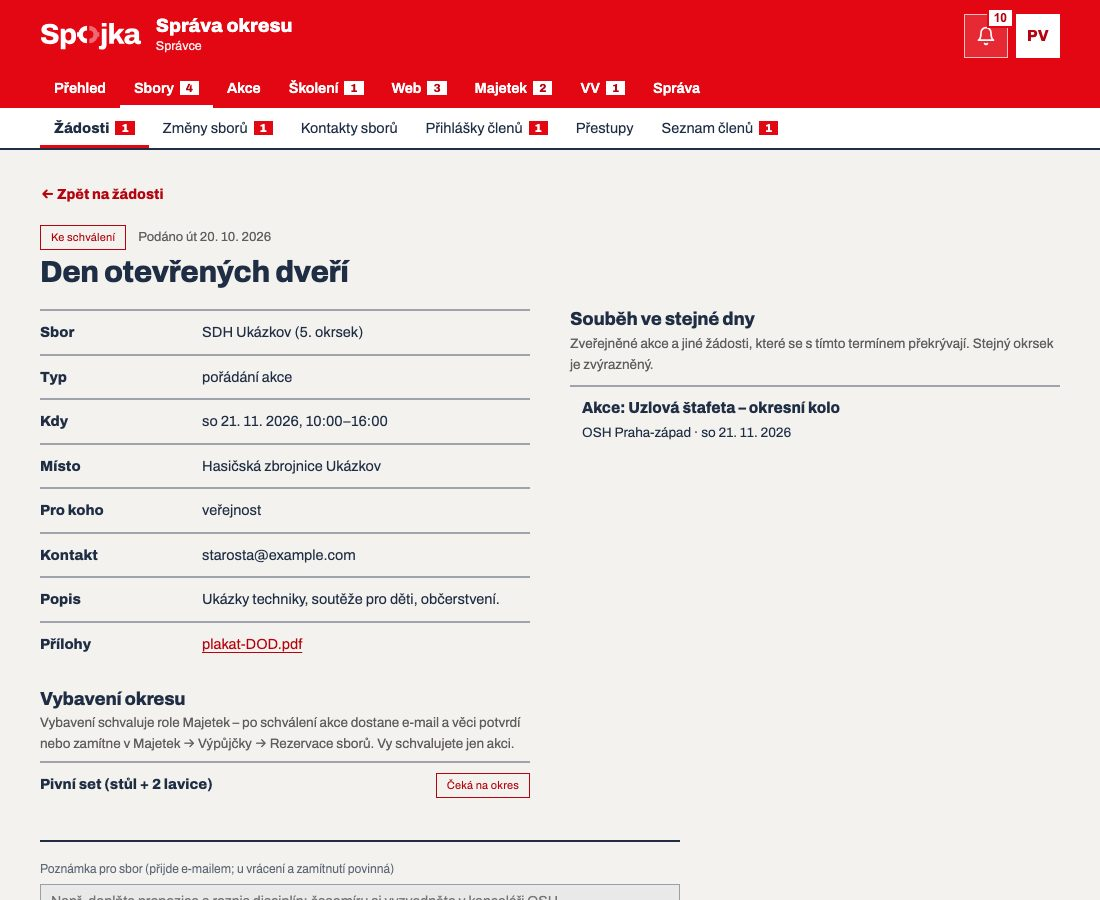
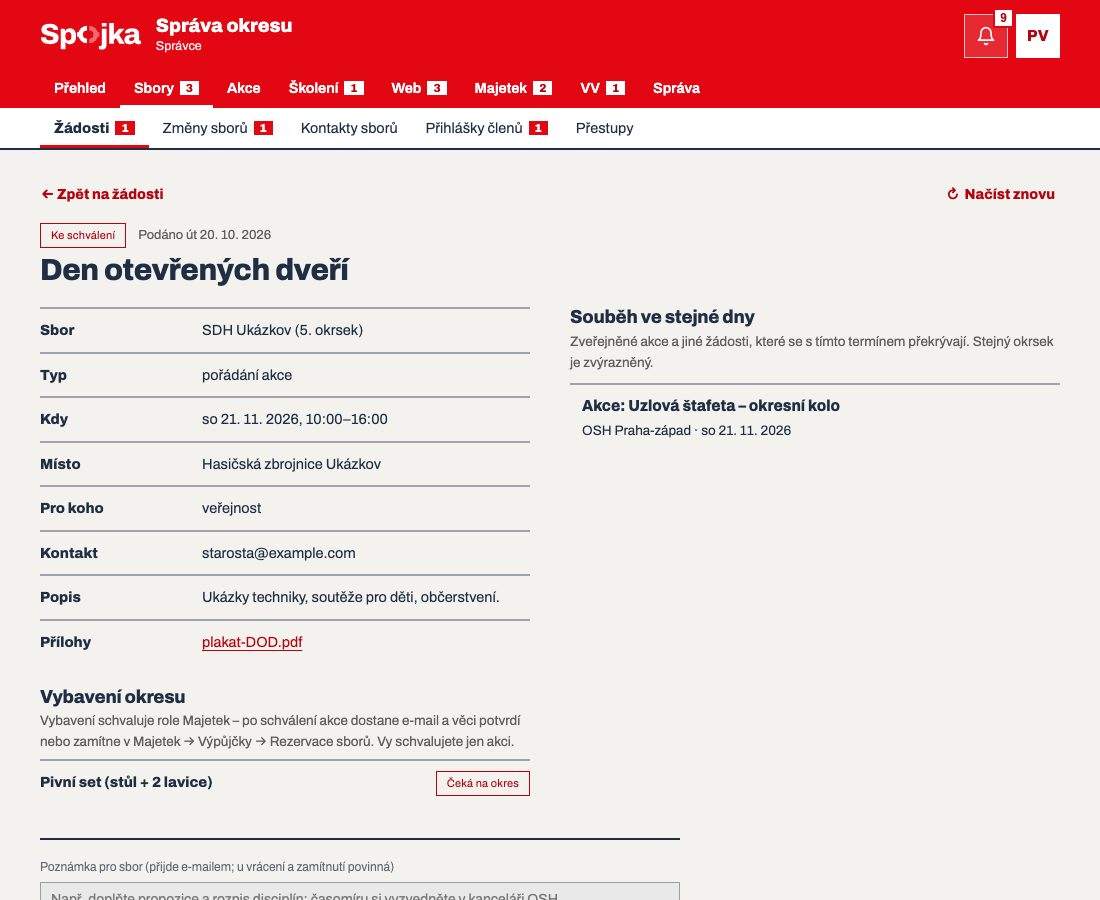
Aplikace: Načíst znovu i v detailech (lišta Zpět + Načíst znovu) a obnovení obrazovky po návratu do záložky po ≥ 60 s
- celostránkové detaily (žádost, změna sboru, kontakty, majetek, výpůjčka, přihláška, školení, jednání VV, soutěž okresu i sboru): .sz-detail-lista
- obnovitObrazovku(): visibilitychange, načte seznam i otevřený detail, při formuláři nebo zápisu nic
- snímky návodů s lištou, návody, vzory aplikace, tabulka změn pro Claude Design, CLAUDE.md

diff --git a/Aplikace OSH.dc.html b/Aplikace OSH.dc.html
@@ -85,6 +85,8 @@ a{ color:var(--color-action); } a:hover{ color:var(--color-action-hover); }
 .sz-hlava h1{ font-size:36px; line-height:1.1; margin:0 0 6px; }
 .sz-hlava p{ font-size:15px; color:var(--color-neutral-700); margin:0; max-width:72ch; }
 .sz-hlava-akce{ display:flex; gap:8px; align-items:center; flex-wrap:nowrap; }
+.sz-detail-lista{ display:flex; justify-content:space-between; align-items:center; gap:8px; margin:0 0 10px -4px; }
+.sz-detail-lista .sz-znovu-d{ display:inline-flex; align-items:center; gap:6px; }
 .sz-hlava-akce .btn{ min-height:40px; height:40px; padding-top:0; padding-bottom:0; display:inline-flex; align-items:center; justify-content:center; gap:6px; white-space:nowrap; }
 .sz-zalozky{ display:flex; gap:8px; flex-wrap:wrap; margin:0 0 12px; }
 .sz-ovladani{ display:flex; flex-wrap:wrap; align-items:flex-start; gap:8px 16px; margin:0 0 16px; }
@@ -176,6 +178,7 @@ a{ color:var(--color-action); } a:hover{ color:var(--color-action-hover); }
   .sz-hlava-akce{ display:contents; }
   .sz-znovu{ grid-column:2; grid-row:1; width:44px; height:44px !important; min-height:44px !important; padding:0 !important; }
   .sz-znovu-t{ display:none; }
+  .sz-detail-lista .sz-znovu-d{ width:44px; min-height:44px; padding:0; justify-content:center; }
   .sz-akce-hl{ grid-column:1 / -1; grid-row:2; width:100%; height:44px !important; min-height:44px !important; }
   .sz-akce-dalsi{ grid-column:1 / -1; grid-row:3; width:100%; height:44px !important; min-height:44px !important; }
   .sz-zalozky{ flex-wrap:nowrap; overflow-x:auto; }
@@ -471,7 +474,7 @@ a{ color:var(--color-action); } a:hover{ color:var(--color-action-hover); }
         <sc-if value="{{ zo.sz.kostra }}" hint-placeholder-val="{{ false }}"><spojka-kostra radky="4"></spojka-kostra></sc-if><sc-if value="{{ zo.sz.maRadky }}" hint-placeholder-val="{{ true }}"><div class="sz-seznam"><sc-for list="{{ zo.sz.radky }}" as="r" hint-placeholder-count="4"><button type="button" class="{{ r.trida }}" title="{{ r.title }}" onClick="{{ r.go }}"><span class="sz-kotva"><span class="sz-kotva-hl">{{ r.kotva }}</span><span class="sz-kotva-po sz-kotva-po--pc">{{ r.kotva2 }}</span><span class="sz-kotva-po sz-kotva-po--mob">{{ r.kotva2m }}</span></span><span class="sz-hlavni"><span class="sz-titulek">{{ r.titulek }}</span><sc-if value="{{ r.popis }}" hint-placeholder-val="{{ true }}"><span class="sz-popis">{{ r.popis }}</span></sc-if><span class="sz-stitky sz-stitky--mob"><sc-for list="{{ r.vse }}" as="t" hint-placeholder-count="2"><span class="{{ t.trida }}">{{ t.t }}</span></sc-for></span></span><span class="sz-stav"><sc-if value="{{ r.stav }}" hint-placeholder-val="{{ true }}"><span class="{{ r.stav.trida }}">{{ r.stav.t }}</span></sc-if></span><span class="sz-stitky sz-stitky--pc"><sc-for list="{{ r.stitky }}" as="t" hint-placeholder-count="2"><span class="{{ t.trida }}">{{ t.t }}</span></sc-for></span><span class="sz-sipka" aria-hidden="true">→</span></button></sc-for></div></sc-if><sc-if value="{{ zo.sz.prazdny }}" hint-placeholder-val="{{ false }}"><div class="sz-prazdny"><b class="sz-prazdny-co">{{ zo.sz.prazdnyCo }}</b><span class="sz-prazdny-proc">{{ zo.sz.prazdnyProc }}</span><sc-if value="{{ zo.sz.prazdnyOdkaz }}" hint-placeholder-val="{{ false }}"><button type="button" class="btn btn-ghost" style="margin:8px 0 0 -12px;" onClick="{{ zo.sz.prazdnyGo }}">{{ zo.sz.prazdnyOdkaz }}</button></sc-if></div></sc-if>
       </sc-if>
       <sc-if value="{{ zo.detail }}" hint-placeholder-val="{{ false }}">
-        <button type="button" onClick="{{ zo.zpet }}" class="btn btn-ghost" style="margin:0 0 12px -4px;">← Zpět na žádosti</button>
+        <div class="sz-detail-lista"><button type="button" onClick="{{ zo.zpet }}" class="btn btn-ghost">← Zpět na žádosti</button><button type="button" class="btn btn-ghost sz-znovu-d" onClick="{{ zo.znovu }}" aria-label="Načíst znovu" title="Načíst znovu"><span aria-hidden="true">↻</span><span class="sz-znovu-t">Načíst znovu</span></button></div>
         <div style="display:flex;gap:12px;align-items:center;flex-wrap:wrap;margin-bottom:6px;"><span class="{{ zd2.tagClass }}">{{ zd2.stavLabel }}</span><span style="font-size:13px;color:var(--color-neutral-700);">{{ zd2.podano }}</span></div>
         <h1 style="font-size:30px;margin:0 0 20px;">{{ zd2.nazev }}</h1>
         <div style="display:grid;grid-template-columns:repeat(auto-fit,minmax(300px,1fr));gap:40px;">
@@ -797,7 +800,7 @@ a{ color:var(--color-action); } a:hover{ color:var(--color-action-hover); }
         <sc-if value="{{ zm.sz.kostra }}" hint-placeholder-val="{{ false }}"><spojka-kostra radky="4"></spojka-kostra></sc-if><sc-if value="{{ zm.sz.maRadky }}" hint-placeholder-val="{{ true }}"><div class="sz-seznam"><sc-for list="{{ zm.sz.radky }}" as="r" hint-placeholder-count="4"><button type="button" class="{{ r.trida }}" title="{{ r.title }}" onClick="{{ r.go }}"><span class="sz-kotva"><span class="sz-kotva-hl">{{ r.kotva }}</span><span class="sz-kotva-po sz-kotva-po--pc">{{ r.kotva2 }}</span><span class="sz-kotva-po sz-kotva-po--mob">{{ r.kotva2m }}</span></span><span class="sz-hlavni"><span class="sz-titulek">{{ r.titulek }}</span><sc-if value="{{ r.popis }}" hint-placeholder-val="{{ true }}"><span class="sz-popis">{{ r.popis }}</span></sc-if><span class="sz-stitky sz-stitky--mob"><sc-for list="{{ r.vse }}" as="t" hint-placeholder-count="2"><span class="{{ t.trida }}">{{ t.t }}</span></sc-for></span></span><span class="sz-stav"><sc-if value="{{ r.stav }}" hint-placeholder-val="{{ true }}"><span class="{{ r.stav.trida }}">{{ r.stav.t }}</span></sc-if></span><span class="sz-stitky sz-stitky--pc"><sc-for list="{{ r.stitky }}" as="t" hint-placeholder-count="2"><span class="{{ t.trida }}">{{ t.t }}</span></sc-for></span><span class="sz-sipka" aria-hidden="true">→</span></button></sc-for></div></sc-if><sc-if value="{{ zm.sz.prazdny }}" hint-placeholder-val="{{ false }}"><div class="sz-prazdny"><b class="sz-prazdny-co">{{ zm.sz.prazdnyCo }}</b><span class="sz-prazdny-proc">{{ zm.sz.prazdnyProc }}</span><sc-if value="{{ zm.sz.prazdnyOdkaz }}" hint-placeholder-val="{{ false }}"><button type="button" class="btn btn-ghost" style="margin:8px 0 0 -12px;" onClick="{{ zm.sz.prazdnyGo }}">{{ zm.sz.prazdnyOdkaz }}</button></sc-if></div></sc-if>
       </sc-if>
       <sc-if value="{{ zm.detail }}" hint-placeholder-val="{{ false }}">
-        <button type="button" onClick="{{ zm.zpet }}" class="btn btn-ghost" style="margin:0 0 12px -4px;">← Zpět na změny sborů</button>
+        <div class="sz-detail-lista"><button type="button" onClick="{{ zm.zpet }}" class="btn btn-ghost">← Zpět na změny sborů</button><button type="button" class="btn btn-ghost sz-znovu-d" onClick="{{ zm.znovu }}" aria-label="Načíst znovu" title="Načíst znovu"><span aria-hidden="true">↻</span><span class="sz-znovu-t">Načíst znovu</span></button></div>
         <div style="display:flex;gap:12px;align-items:center;flex-wrap:wrap;margin-bottom:6px;"><span class="{{ zd3.tagClass }}">{{ zd3.stav }}</span><span style="font-size:13.5px;color:var(--color-neutral-700);">{{ zd3.podano }}</span></div>
         <h1 style="font-size:30px;margin:0 0 16px;">{{ zd3.sbor }}</h1>
         <sc-if value="{{ zd3.maPoznSboru }}" hint-placeholder-val="{{ false }}"><p style="border:2px solid var(--color-divider);padding:10px 12px;max-width:760px;margin:0 0 16px;"><b>Poznámka sboru:</b> {{ zd3.poznSboru }}</p></sc-if>
@@ -840,7 +843,7 @@ a{ color:var(--color-action); } a:hover{ color:var(--color-action-hover); }
         <sc-if value="{{ ks.sz.kostra }}" hint-placeholder-val="{{ false }}"><spojka-kostra radky="4"></spojka-kostra></sc-if><sc-if value="{{ ks.tab.maRadky }}" hint-placeholder-val="{{ true }}"><table class="table sz-tab"><thead><tr><sc-for list="{{ ks.tab.hlava }}" as="h" hint-placeholder-count="4"><th>{{ h.t }}</th></sc-for><th class="sz-tab-sip"></th></tr></thead><tbody><sc-for list="{{ ks.tab.radky }}" as="r" hint-placeholder-count="5"><tr class="{{ r.trida }}" onClick="{{ r.go }}"><td class="sz-tab-t"><sc-if value="{{ r.klik }}" hint-placeholder-val="{{ true }}"><button type="button" class="sz-tab-tl" aria-expanded="{{ r.aria }}">{{ r.titulek }}</button></sc-if><sc-if value="{{ r.neklik }}" hint-placeholder-val="{{ false }}"><span class="sz-tab-tl">{{ r.titulek }}</span></sc-if><sc-if value="{{ r.pod }}" hint-placeholder-val="{{ false }}"><span class="sz-tab-pod">{{ r.pod }}</span></sc-if><span class="sz-tab-mob"><sc-if value="{{ r.popis }}" hint-placeholder-val="{{ true }}"><span class="sz-popis">{{ r.popis }}</span></sc-if><sc-if value="{{ r.stav }}" hint-placeholder-val="{{ false }}"><span class="{{ r.stav.trida }}">{{ r.stav.t }}</span></sc-if></span></td><sc-for list="{{ r.bunky }}" as="b" hint-placeholder-count="3"><td class="{{ b.trida }}"><sc-if value="{{ b.stitek }}" hint-placeholder-val="{{ false }}"><span class="{{ b.stitek.trida }}">{{ b.stitek.t }}</span></sc-if><sc-if value="{{ b.jeOdkaz }}" hint-placeholder-val="{{ false }}"><a href="{{ b.href }}" onClick="{{ b.stop }}">{{ b.t }}</a></sc-if><sc-if value="{{ b.jeText }}" hint-placeholder-val="{{ true }}">{{ b.t }}</sc-if><sc-if value="{{ b.pod }}" hint-placeholder-val="{{ false }}"><span class="sz-tab-pod">{{ b.pod }}</span></sc-if></td></sc-for><td class="sz-tab-sip" aria-hidden="true">{{ r.sipka }}</td></tr></sc-for></tbody></table></sc-if><sc-if value="{{ ks.sz.prazdny }}" hint-placeholder-val="{{ false }}"><div class="sz-prazdny"><b class="sz-prazdny-co">{{ ks.sz.prazdnyCo }}</b><span class="sz-prazdny-proc">{{ ks.sz.prazdnyProc }}</span><sc-if value="{{ ks.sz.prazdnyOdkaz }}" hint-placeholder-val="{{ false }}"><button type="button" class="btn btn-ghost" style="margin:8px 0 0 -12px;" onClick="{{ ks.sz.prazdnyGo }}">{{ ks.sz.prazdnyOdkaz }}</button></sc-if></div></sc-if>
       </sc-if>
       <sc-if value="{{ ks.detail }}" hint-placeholder-val="{{ false }}">
-        <button type="button" onClick="{{ ks.zpet }}" class="btn btn-ghost" style="margin:0 0 12px -4px;">← Zpět na kontakty sborů</button>
+        <div class="sz-detail-lista"><button type="button" onClick="{{ ks.zpet }}" class="btn btn-ghost">← Zpět na kontakty sborů</button><button type="button" class="btn btn-ghost sz-znovu-d" onClick="{{ ks.znovu }}" aria-label="Načíst znovu" title="Načíst znovu"><span aria-hidden="true">↻</span><span class="sz-znovu-t">Načíst znovu</span></button></div>
         <div style="display:flex;justify-content:space-between;align-items:flex-end;gap:16px;flex-wrap:wrap;margin-bottom:6px;">
           <h1 style="font-size:30px;margin:0;">{{ ks.dSbor }}</h1>
           <button type="button" class="btn btn-primary" onClick="{{ ks.dKopirovat }}" disabled="{{ ks.dPrazdno }}">Kopírovat e-maily sboru</button>
@@ -1064,7 +1067,7 @@ a{ color:var(--color-action); } a:hover{ color:var(--color-action-hover); }
           <sc-if value="{{ mj.tabM.maRadky }}" hint-placeholder-val="{{ true }}"><table class="table sz-tab"><thead><tr><sc-for list="{{ mj.tabM.hlava }}" as="h" hint-placeholder-count="4"><th>{{ h.t }}</th></sc-for><th class="sz-tab-sip"></th></tr></thead><tbody><sc-for list="{{ mj.tabM.radky }}" as="r" hint-placeholder-count="5"><tr class="{{ r.trida }}" onClick="{{ r.go }}"><td class="sz-tab-t"><sc-if value="{{ r.klik }}" hint-placeholder-val="{{ true }}"><button type="button" class="sz-tab-tl" aria-expanded="{{ r.aria }}">{{ r.titulek }}</button></sc-if><sc-if value="{{ r.neklik }}" hint-placeholder-val="{{ false }}"><span class="sz-tab-tl">{{ r.titulek }}</span></sc-if><sc-if value="{{ r.pod }}" hint-placeholder-val="{{ false }}"><span class="sz-tab-pod">{{ r.pod }}</span></sc-if><span class="sz-tab-mob"><sc-if value="{{ r.popis }}" hint-placeholder-val="{{ true }}"><span class="sz-popis">{{ r.popis }}</span></sc-if><sc-if value="{{ r.stav }}" hint-placeholder-val="{{ false }}"><span class="{{ r.stav.trida }}">{{ r.stav.t }}</span></sc-if></span></td><sc-for list="{{ r.bunky }}" as="b" hint-placeholder-count="3"><td class="{{ b.trida }}"><sc-if value="{{ b.stitek }}" hint-placeholder-val="{{ false }}"><span class="{{ b.stitek.trida }}">{{ b.stitek.t }}</span></sc-if><sc-if value="{{ b.jeOdkaz }}" hint-placeholder-val="{{ false }}"><a href="{{ b.href }}" onClick="{{ b.stop }}">{{ b.t }}</a></sc-if><sc-if value="{{ b.jeText }}" hint-placeholder-val="{{ true }}">{{ b.t }}</sc-if><sc-if value="{{ b.pod }}" hint-placeholder-val="{{ false }}"><span class="sz-tab-pod">{{ b.pod }}</span></sc-if></td></sc-for><td class="sz-tab-sip" aria-hidden="true">{{ r.sipka }}</td></tr></sc-for></tbody></table></sc-if><sc-if value="{{ mj.szm.prazdny }}" hint-placeholder-val="{{ false }}"><div class="sz-prazdny"><b class="sz-prazdny-co">{{ mj.szm.prazdnyCo }}</b><span class="sz-prazdny-proc">{{ mj.szm.prazdnyProc }}</span><sc-if value="{{ mj.szm.prazdnyOdkaz }}" hint-placeholder-val="{{ false }}"><button type="button" class="btn btn-ghost" style="margin:8px 0 0 -12px;" onClick="{{ mj.szm.prazdnyGo }}">{{ mj.szm.prazdnyOdkaz }}</button></sc-if></div></sc-if>
         </sc-if>
         <sc-if value="{{ mj.maDetail }}" hint-placeholder-val="{{ false }}">
-          <button type="button" onClick="{{ mj.d.zpet }}" class="btn btn-ghost" style="margin:0 0 12px -4px;">← Zpět na seznam</button>
+          <div class="sz-detail-lista"><button type="button" onClick="{{ mj.d.zpet }}" class="btn btn-ghost">← Zpět na seznam</button><button type="button" class="btn btn-ghost sz-znovu-d" onClick="{{ mj.znovu }}" aria-label="Načíst znovu" title="Načíst znovu"><span aria-hidden="true">↻</span><span class="sz-znovu-t">Načíst znovu</span></button></div>
           <div style="display:flex;gap:10px;align-items:center;flex-wrap:wrap;margin-bottom:6px;"><span style="width:12px;height:12px;background:{{ mj.d.barva }};border:1px solid var(--color-text);display:inline-block;"></span><span>{{ mj.d.stav }}</span><span style="font-size:13px;color:var(--color-neutral-700);">{{ mj.d.idText }}</span></div>
           <h2 style="font-size:26px;margin:0 0 16px;">{{ mj.d.nazev }}</h2>
           <div style="display:grid;grid-template-columns:repeat(auto-fit,minmax(280px,1fr));gap:32px;">
@@ -1152,7 +1155,7 @@ a{ color:var(--color-action); } a:hover{ color:var(--color-action-hover); }
           <sc-if value="{{ mj.szv.kostra }}" hint-placeholder-val="{{ false }}"><spojka-kostra radky="4"></spojka-kostra></sc-if><sc-if value="{{ mj.szv.maRadky }}" hint-placeholder-val="{{ true }}"><div class="sz-seznam"><sc-for list="{{ mj.szv.radky }}" as="r" hint-placeholder-count="4"><button type="button" class="{{ r.trida }}" title="{{ r.title }}" onClick="{{ r.go }}"><span class="sz-kotva"><span class="sz-kotva-hl">{{ r.kotva }}</span><span class="sz-kotva-po sz-kotva-po--pc">{{ r.kotva2 }}</span><span class="sz-kotva-po sz-kotva-po--mob">{{ r.kotva2m }}</span></span><span class="sz-hlavni"><span class="sz-titulek">{{ r.titulek }}</span><sc-if value="{{ r.popis }}" hint-placeholder-val="{{ true }}"><span class="sz-popis">{{ r.popis }}</span></sc-if><span class="sz-stitky sz-stitky--mob"><sc-for list="{{ r.vse }}" as="t" hint-placeholder-count="2"><span class="{{ t.trida }}">{{ t.t }}</span></sc-for></span></span><span class="sz-stav"><sc-if value="{{ r.stav }}" hint-placeholder-val="{{ true }}"><span class="{{ r.stav.trida }}">{{ r.stav.t }}</span></sc-if></span><span class="sz-stitky sz-stitky--pc"><sc-for list="{{ r.stitky }}" as="t" hint-placeholder-count="2"><span class="{{ t.trida }}">{{ t.t }}</span></sc-for></span><span class="sz-sipka" aria-hidden="true">→</span></button><sc-if value="{{ r.otevreny }}" hint-placeholder-val="{{ false }}"><div class="sz-rozbal"><sc-if value="{{ r.maInfo }}" hint-placeholder-val="{{ false }}"><span>{{ r.info }}</span></sc-if><div style="display:flex;gap:8px;flex-wrap:wrap;"><sc-if value="{{ r.lzeRozhodnout }}" hint-placeholder-val="{{ false }}"><button type="button" class="btn btn-primary" onClick="{{ r.potvrdit }}" disabled="{{ busy }}">{{ r.tlPotvrdit }}</button><button type="button" class="btn btn-secondary" onClick="{{ r.zamitnout }}" disabled="{{ busy }}">Zamítnout</button></sc-if><button type="button" class="btn btn-ghost" onClick="{{ r.otevritVec }}">Otevřít věc v evidenci</button></div></div></sc-if></sc-for></div></sc-if><sc-if value="{{ mj.szv.prazdny }}" hint-placeholder-val="{{ false }}"><div class="sz-prazdny"><b class="sz-prazdny-co">{{ mj.szv.prazdnyCo }}</b><span class="sz-prazdny-proc">{{ mj.szv.prazdnyProc }}</span><sc-if value="{{ mj.szv.prazdnyOdkaz }}" hint-placeholder-val="{{ false }}"><button type="button" class="btn btn-ghost" style="margin:8px 0 0 -12px;" onClick="{{ mj.szv.prazdnyGo }}">{{ mj.szv.prazdnyOdkaz }}</button></sc-if></div></sc-if>
         </sc-if>
         <sc-if value="{{ mj.vypMaDetail }}" hint-placeholder-val="{{ false }}">
-          <button type="button" onClick="{{ mj.v.zpet }}" class="btn btn-ghost" style="margin:0 0 12px -4px;">← Zpět na výpůjčky</button>
+          <div class="sz-detail-lista"><button type="button" onClick="{{ mj.v.zpet }}" class="btn btn-ghost">← Zpět na výpůjčky</button><button type="button" class="btn btn-ghost sz-znovu-d" onClick="{{ mj.znovu }}" aria-label="Načíst znovu" title="Načíst znovu"><span aria-hidden="true">↻</span><span class="sz-znovu-t">Načíst znovu</span></button></div>
           <div style="display:flex;gap:10px;align-items:center;flex-wrap:wrap;margin-bottom:6px;"><span class="{{ mj.v.tagClass }}">{{ mj.v.stav }}</span><span style="font-size:13px;color:var(--color-neutral-700);">{{ mj.v.idText }}</span></div>
           <h2 style="font-size:26px;margin:0 0 16px;">{{ mj.v.nazev }}</h2>
           <div style="max-width:720px;"><sc-for list="{{ mj.v.kv }}" as="k" hint-placeholder-count="12"><div style="display:grid;grid-template-columns:minmax(120px,170px) minmax(0,1fr);gap:12px;padding:9px 0;border-top:2px solid var(--color-divider);font-size:14.5px;"><span style="font-weight:700;">{{ k.k }}</span><span style="overflow-wrap:anywhere;white-space:pre-line;">{{ k.v }}</span></div></sc-for></div>
@@ -1393,7 +1396,7 @@ a{ color:var(--color-action); } a:hover{ color:var(--color-action-hover); }
       </sc-if>
 
       <sc-if value="{{ sko.jeDetail }}" hint-placeholder-val="{{ false }}">
-        <button type="button" class="btn btn-ghost" onClick="{{ sko.d.zpet }}" style="margin:0 0 10px;">← Všechna školení</button>
+        <div class="sz-detail-lista"><button type="button" class="btn btn-ghost" onClick="{{ sko.d.zpet }}">← Všechna školení</button><button type="button" class="btn btn-ghost sz-znovu-d" onClick="{{ sko.znovu }}" aria-label="Načíst znovu" title="Načíst znovu"><span aria-hidden="true">↻</span><span class="sz-znovu-t">Načíst znovu</span></button></div>
         <div style="display:flex;gap:10px;align-items:center;flex-wrap:wrap;margin:0 0 6px;"><span class="{{ sko.d.tagClass }}">{{ sko.d.stav }}</span><h1 style="font-size:28px;margin:0;">{{ sko.d.nazev }}</h1></div>
         <p style="font-size:15px;margin:0 0 4px;max-width:72ch;">{{ sko.d.info }}</p>
         <p style="font-size:13px;color:var(--color-neutral-700);margin:0 0 10px;">{{ sko.d.sub }}</p>
@@ -1510,7 +1513,7 @@ a{ color:var(--color-action); } a:hover{ color:var(--color-action-hover); }
         </sc-if>
       </sc-if>
       <sc-if value="{{ po.detail }}" hint-placeholder-val="{{ false }}">
-        <button type="button" onClick="{{ po.zpet }}" class="btn btn-ghost" style="margin:0 0 12px -4px;">← Zpět na přihlášky</button>
+        <div class="sz-detail-lista"><button type="button" onClick="{{ po.zpet }}" class="btn btn-ghost">← Zpět na přihlášky</button><button type="button" class="btn btn-ghost sz-znovu-d" onClick="{{ po.znovu }}" aria-label="Načíst znovu" title="Načíst znovu"><span aria-hidden="true">↻</span><span class="sz-znovu-t">Načíst znovu</span></button></div>
         <div style="display:flex;gap:10px;align-items:center;flex-wrap:wrap;margin:0 0 4px;"><span class="{{ po.tagClass }}">{{ po.stav }}</span><span style="font-size:13.5px;color:var(--color-neutral-700);">{{ po.sbor }} · {{ po.kat }}</span></div>
         <h1 style="font-size:28px;margin:0 0 12px;">{{ po.jmeno }}</h1>
         <div style="max-width:640px;margin:0 0 16px;"><sc-if value="{{ po.maKroky }}" hint-placeholder-val="{{ true }}"><div role="list" aria-label="Fáze přihlášky" style="display:flex;gap:4px;margin:2px 0;"><sc-for list="{{ po.kroky }}" as="k" hint-placeholder-count="5"><div role="listitem" aria-current="{{ k.aria }}" style="flex:1;min-width:0;"><div style="height:6px;background:{{ k.bg }};box-shadow:inset 0 0 0 2px {{ k.bd }};"></div><div lang="cs" class="pr-krok" style="font-size:11.5px;margin-top:4px;line-height:1.25;hyphens:auto;overflow-wrap:anywhere;font-weight:{{ k.fw }};color:{{ k.fg }};">{{ k.label }}</div></div></sc-for></div></sc-if></div>
@@ -1614,7 +1617,7 @@ a{ color:var(--color-action); } a:hover{ color:var(--color-action-hover); }
       </sc-if>
 
       <sc-if value="{{ vvo.jeDetail }}" hint-placeholder-val="{{ false }}">
-        <button type="button" class="btn btn-ghost" onClick="{{ vvo.d.zpet }}" style="margin:0 0 10px;">← Všechna jednání</button>
+        <div class="sz-detail-lista"><button type="button" class="btn btn-ghost" onClick="{{ vvo.d.zpet }}">← Všechna jednání</button><button type="button" class="btn btn-ghost sz-znovu-d" onClick="{{ vvo.znovu }}" aria-label="Načíst znovu" title="Načíst znovu"><span aria-hidden="true">↻</span><span class="sz-znovu-t">Načíst znovu</span></button></div>
         <div style="display:flex;gap:10px;align-items:center;flex-wrap:wrap;margin:0 0 6px;"><span class="{{ vvo.d.tagClass }}">{{ vvo.d.stav }}</span><span style="font-size:14px;color:var(--color-neutral-700);">{{ vvo.d.typText }}</span></div>
         <h1 style="font-size:28px;margin:0 0 6px;">{{ vvo.d.nazev }}</h1>
         <sc-if value="{{ vvo.d.nacita }}" hint-placeholder-val="{{ false }}"><spojka-nacitani velikost="72"></spojka-nacitani></sc-if>
@@ -2180,7 +2183,7 @@ a{ color:var(--color-action); } a:hover{ color:var(--color-action-hover); }
       </sc-if>
 
       <sc-if value="{{ ss2.detail }}" hint-placeholder-val="{{ false }}">
-        <button type="button" onClick="{{ ss2.d.zpet }}" class="btn btn-ghost" style="margin:0 0 10px -4px;">← Soutěže</button>
+        <div class="sz-detail-lista"><button type="button" onClick="{{ ss2.d.zpet }}" class="btn btn-ghost">← Soutěže</button><button type="button" class="btn btn-ghost sz-znovu-d" onClick="{{ ss2.znovu }}" aria-label="Načíst znovu" title="Načíst znovu"><span aria-hidden="true">↻</span><span class="sz-znovu-t">Načíst znovu</span></button></div>
         <sc-if value="{{ ss2.d.zakl }}" hint-placeholder-val="{{ true }}">
           <h1 style="font-size:28px;margin:0 0 4px;">{{ ss2.d.nazev }}</h1>
           <p style="margin:0 0 8px;color:var(--color-neutral-700);font-size:14.5px;">{{ ss2.d.meta }}</p>
@@ -2892,7 +2895,7 @@ a{ color:var(--color-action); } a:hover{ color:var(--color-action-hover); }
       </sc-if>
 
       <sc-if value="{{ soSdilenyDetail }}" hint-placeholder-val="{{ false }}">
-        <button type="button" onClick="{{ sd2.zpet }}" class="btn btn-ghost" style="margin:0 0 12px -4px;">← Zpět na soutěže</button>
+        <div class="sz-detail-lista"><button type="button" onClick="{{ sd2.zpet }}" class="btn btn-ghost">← Zpět na soutěže</button><button type="button" class="btn btn-ghost sz-znovu-d" onClick="{{ sd2.znovu }}" aria-label="Načíst znovu" title="Načíst znovu"><span aria-hidden="true">↻</span><span class="sz-znovu-t">Načíst znovu</span></button></div>
         <sc-if value="{{ sd2.loading }}" hint-placeholder-val="{{ false }}"><spojka-nacitani velikost="72"></spojka-nacitani></sc-if>
         <sc-if value="{{ sd2.ma }}" hint-placeholder-val="{{ true }}">
           <div style="display:flex;gap:12px;align-items:center;flex-wrap:wrap;margin-bottom:6px;"><span class="{{ sd2.tagClass }}">{{ sd2.stavLabel }}</span><span style="font-size:13.5px;color:var(--color-neutral-700);">{{ sd2.druh }}</span></div>
@@ -3358,6 +3361,10 @@ class Component extends DCLogic {
     // F14: proužek „Bez spojení…“ / „Spojení obnoveno“ a po obnovení znovu načíst (souhrn, portál, otevřený modul)
     if (window.SpojkaNacitani) window.SpojkaNacitani.hlidatSpojeni({ znovu: () => { if (this.state.mode === 'live') this.nacist().then(() => this.zajistitData()); } });
     window.addEventListener('online', this._net); window.addEventListener('offline', this._net);
+    // Po návratu do aplikace (jiná záložka, zamčený telefon) po ≥ 60 s znovu načíst otevřenou obrazovku i detail – ať hlasy, žádosti a stavy nejsou staré. Žádný časovač na pozadí.
+    this._skryto = 0;
+    this._vis = () => { if (document.hidden) { this._skryto = Date.now(); return; } if (this._skryto && Date.now() - this._skryto >= 60000) this.obnovitObrazovku(); this._skryto = 0; };
+    document.addEventListener('visibilitychange', this._vis);
     if (this.state.mode === 'live') this.nacist();
     this.propojitPopisky();
   }
@@ -3420,6 +3427,41 @@ class Component extends DCLogic {
   // Souhrn pro víc rolí ve třech souběžných dotazech: Apps Script je zpracuje naráz, čeká se na nejpomalejší skupinu, ne na součet (29. 10.: Správce 12,6 s na serveru).
   // Skupiny podle naměřených časů částí; první vrací i uživatele (ověření relace) – když selže, selže celé načtení, ostatní jen chybí v odznacích.
   SOUHRN_SKUPINY = [['dokumenty', 'kalendar', 'zadosti', 'rezervaceKPotvrzeni', 'vvCeka'], ['vypujckyPo', 'prispevky', 'zmeny', 'prestupy'], ['souteze', 'prihlasky', 'skoleni']];
+  // Znovu načte data otevřené obrazovky (seznam i otevřený detail) – po návratu do aplikace. Při otevřeném formuláři nebo běžícím zápisu nic (ať se neztratí rozepsané).
+  obnovitObrazovku() {
+    const s = this.state, U = s.rel && s.rel.uzivatel;
+    if (s.mode !== 'live' || !U || s.busy || (s.net && s.net.nacita) || navigator.onLine === false) return;
+    const sk = s.role === 'sbor' ? this.skupinaSboru(s.sbor) : '';
+    if (s.role === 'sbor') {
+      if (!sk) return;
+      const v = s.sbView;
+      if (['prehled', 'kalendar', 'dokumenty'].indexOf(v) >= 0) this.nactiPortal();
+      else if (v === 'mujsbor') { if (!s.msForm) this.nactiMujSbor(); }
+      else if (v === 'zadosti') { if (!s.zform) this.nactiZadostiSbor(); }
+      else if (v === 'vybaveni') { if (!s.vbF) this.nactiVybaveniSbor(); }
+      else if (v === 'seznam') { if (!s.clF) this.nactiClenySbor(); }
+      else if (v === 'clenove') { if (!s.prhForm) this.nactiPrihlaskySbor(); }
+      else if (v === 'prestupy') { if (!s.prsForm) this.nactiPrestupySbor(); }
+      else if (v === 'prihlasky') { if (s.soForm || s.soDrForm || s.sbSouF) return; this.nactiSoutezeSbor(); if (s.sbSoD) this.nactiSoutezSbor(s.sbSoD); if (s.sbSoSel) this.nactiSoutez(s.sbSoSel, sk); }
+      else if (v === 'skoleni') { if (!s.skP) this.nactiSkoleniSbor(); }
+      return;
+    }
+    const v = s.okView;
+    if (v === 'prehled') this.souhrnSoubezne().then(j => { this.setState({ souhrn: j }); this.ulozitPosledni({ souhrn: j }); }).catch(() => {});
+    else if (v === 'dokumenty' || v === 'dok') { if (s.dokNacteno) this.nactiDokumenty(); }
+    else if (v === 'kalendar') { if (s.kalNacteno && !s.kal) this.nactiKalendar(); }
+    else if (v === 'zadosti') { if (s.zadOkres) this.nactiZadostiOkres(); }
+    else if (v === 'majetek') { if (s.mjd && !s.mjForm && !s.mjVypForm && !s.mjProt) this.nactiMajetek(); }
+    else if (v === 'prispevky') { if (s.prd && !s.prEd) this.nactiPrispevky(); }
+    else if (v === 'zmenysb') { if (s.zmsb) this.nactiZmenySb(); }
+    else if (v === 'kontakty') { if (s.ksd) this.nactiKontakty(); }
+    else if (v === 'clenove') { if (s.prhOk) this.nactiPrihlaskyOkres(); if (s.prhSel) this.nactiPrihlaskuDetail(s.prhSel); }
+    else if (v === 'prestupy') { if (s.prsOk) this.nactiPrestupyOkres(); }
+    else if (v === 'souteze') { if (s.soForm || s.soDrForm || s.soPhForm) return; if (s.sod) this.nactiSouteze(); if (s.soSel) this.nactiSoutez(s.soSel); }
+    else if (v === 'skoleni') { if (s.skF) return; if (s.skOk) this.nactiSkoleniOkres(); if (s.skSel) this.nactiSkoleni(s.skSel); }
+    else if (v === 'kvalifikace') { if (s.kvOk && !s.kvF) this.nactiKvalOkres(); }
+    else if (v === 'vv') { if (s.vvF) return; if (s.vv) this.nactiVV(); if (s.vvSel) this.nactiVVDetail(s.vvSel); }
+  }
   souhrnSoubezne() {
     const r = ((this.state.rel || {}).uzivatel || {}).role || {};
     if (Object.keys(r).length < 3 && !r['Správce']) return this.api('souhrn');
@@ -5863,7 +5905,7 @@ class Component extends DCLogic {
         this.serverem('soutezUlozit', soReq({ id: f.id || undefined, zadost: f.zadost || undefined, data }), j => { this.soPrevzit(j); this.setState(soCtxSbor ? { soForm: null, sbSoSel: j.data.id } : { soForm: null, soSel: j.data.id, soTab: 'souteze' }); this.toast(f.id ? 'Soutěž uložena.' : 'Soutěž založena – je v kalendáři okresu.'); }, 'soUlozit');
       }
     }) : {};
-    let sd2 = { ma: false, zalozky: [], drChips: [], vysChips: [], poradi: [], kategorie: [], loading: !!soDetId && !soX, zpet: () => { this.setState(soCtxSbor ? { sbSoSel: null, soDrForm: null, soVarovani: '' } : { soSel: null, soDrForm: null, soVarovani: '' }); if (soCtxSbor) this.nactiSoutezeSbor(); } };
+    let sd2 = { ma: false, zalozky: [], drChips: [], vysChips: [], poradi: [], kategorie: [], loading: !!soDetId && !soX, znovu: () => { if (soCtxSbor) this.nactiSoutezeSbor(); else this.nactiSouteze(); if (soDetId) this.nactiSoutez(soDetId, soSk); }, zpet: () => { this.setState(soCtxSbor ? { sbSoSel: null, soDrForm: null, soVarovani: '' } : { soSel: null, soDrForm: null, soVarovani: '' }); if (soCtxSbor) this.nactiSoutezeSbor(); } };
     if (soX) {
       const x = soX.data, stv = SO_STAV[x.stav] || [x.stav, 'tag tag-neutral'], id = x.id, KROKY = ['koncept', 'přihlášky', 'uzavřeno', 'závod', 'ověřeno', 'zveřejněno'], ki = KROKY.indexOf(x.stav);
       const lzeMenit = ['koncept', 'přihlášky', 'uzavřeno', 'závod'].indexOf(x.stav) >= 0;
@@ -5937,7 +5979,7 @@ class Component extends DCLogic {
             rows: hmS.polozky.filter(e => e.d === dd.d).sort((a, b) => a.t - b.t || a.dr - b.dr).map(e => ({ cas: soHM(e.t), odhad: !e.hotovo && e.odhad !== e.t ? soHM(e.odhad) : '', dr: e.dr, kat: e.kat, druzstvo: jm[e.id] || '?', pokus: pokL(e, dd.d), stav: e.hotovo ? 'hotovo' : '' })) })) : []
         };
       })();
-      sd2 = { ma: true, loading: false, zpet: sd2.zpet, nazev: x.nazev, druh: x.druh + (x.pohar ? ' · ' + (x.kolo ? x.kolo + '. kolo ' : '') + poharN : ''), tagClass: stv[1], stavLabel: stv[0],
+      sd2 = { ma: true, loading: false, zpet: sd2.zpet, znovu: sd2.znovu, nazev: x.nazev, druh: x.druh + (x.pohar ? ' · ' + (x.kolo ? x.kolo + '. kolo ' : '') + poharN : ''), tagClass: stv[1], stavLabel: stv[0],
         sub: [soDen(x.od) + (x.do && this.den(x.do) !== this.den(x.od) ? ' – ' + soDen(x.do) : ''), x.misto, x.poradatel ? 'pořádá ' + x.poradatel : ''].filter(Boolean).join(' · '),
         kroky: ['Koncept', 'Přihlášky', 'Startovka', 'Závod', 'Ověřeno', 'Na webu'].map((l, i) => ({ l, bg: i <= ki ? 'var(--color-brand)' : 'var(--color-divider)', fw: i === ki ? '800' : '400' })),
         akce: akce.map(([label, cls, go]) => ({ label, cls, go })), krokInfo: info, maVarovani: !!s.soVarovani, varovani: s.soVarovani || '',

diff --git a/navody.html b/navody.html
@@ -43,7 +43,7 @@ figure.snimek figcaption { font-size:13.5px; color:var(--color-neutral-700); pad
 <header class="hlava">
 <div class="mala"><a href="index.html">← Web OSH Praha-západ</a> · <a href="Aplikace%20OSH.dc.html">Otevřít Spojku</a></div>
 <h1>Návody ke Spojce</h1>
-<p class="mala">Co sbory a okres v aplikaci zařídí a jak · obrázky jsou z ukázkových dat (smyšlený SDH Ukázkov) · aktualizováno 27. 10. 2026 · dotazy a chyby na <a href="mailto:spravci@oshpz.cz">spravci@oshpz.cz</a></p>
+<p class="mala">Co sbory a okres v aplikaci zařídí a jak · obrázky jsou z ukázkových dat (smyšlený SDH Ukázkov) · aktualizováno 26. 11. 2026 · dotazy a chyby na <a href="mailto:spravci@oshpz.cz">spravci@oshpz.cz</a></p>
 </header>
 
 <nav class="obsah" aria-label="Obsah"><ul>
@@ -139,6 +139,7 @@ figure.snimek figcaption { font-size:13.5px; color:var(--color-neutral-700); pad
 <li>Když Spojka čeká na data, <b>spojuje se znak</b> – „Spojuji data…“. U rychlé odpovědi ho ani neuvidíte. Seznamy místo něj ukazují šedé obrysy řádků, tlačítko při ukládání znak a text (Ukládám…, Odesílám…).</li>
 <li>Načtení ze serveru trvá běžně pár sekund. Když trvá déle než 12 sekund, objeví se „Ještě chvíli…“, po 30 sekundách „Nepodařilo se načíst data.“ s tlačítky <b>Zkusit znovu</b> a <b>Napsat správci</b> (předvyplněný e-mail s adresou obrazovky).</li>
 <li><b>Bez internetu</b> je znak šedý a nehýbe se. Nahoře je proužek „Bez spojení k internetu – zobrazuji naposledy načtená data“: co už jste otevřeli, vidíte dál, ale uložit teď nic nejde (tlačítko napíše „Bez spojení – uložte znovu po připojení“). Po připojení se data načtou sama a krátce se ukáže „Spojení obnoveno“.</li>
+<li>Data se načtou při otevření obrazovky a pak se samy nemění. Aktuální stav (nový hlas, nová žádost) stáhne tlačítko <b>↻ Načíst znovu</b> – je nahoře u každého seznamu i v otevřeném detailu vedle tlačítka Zpět. Když se do Spojky vrátíte po minutě a déle (jiná záložka, zamčený telefon), otevřená obrazovka se obnoví sama.</li>
 <li>Závodní panel ukládá i bez signálu – zápisy odešle sám, až bude spojení.</li>
 </ul>
 

diff --git a/docs/aplikace-vzory.md b/docs/aplikace-vzory.md
@@ -8,5 +8,9 @@ Aplikace se jmenuje **Spojka** (logo a pravidla `assets/spojka/README.md`, návr
 ## Seznamy a tabulky (úkol 6)
 - **Seznamy (úkol 6, varianta 6b)**: vzor ve `docs/claude-design/seznamy-vzor.md` – třídy `.sz-*` v `<helmet>`, řádek z `radek({ kotva, kotva2, titulek, popis: [..], stav, ceka, zrus, typ, pro, go })` (prázdné části popisu vynechá, stav při `ceka` = konkrétní krok, nikdy „Čeká na vás“), kotva z data `kotvaData(iso, cas)`, záložky `szZalozky` (vždy s počtem, první = co čeká na mě), filtry `szFiltry`, skupiny `szMesice`. Nové a převáděné seznamy jen takhle (převedeno vše: Kalendář, Dokumenty, Žádosti, Příspěvky, Změny sborů, Přihlášky členů, Přestupy, Soutěže, Školení, Jednání VV, Výpůjčky a rezervace, Zápůjčky sboru; tabulky Kontakty sborů, Majetek, Osoby, Záznam změn, Seznam členů, Kvalifikace, Odvody); seznam s hledáním `szSeznam()`, rozbalení řádku `szOtevreny` / `szPrepnout` (jen jeden otevřený); **tabulka** (sloupce se porovnávají) `szTab(záhlaví, řádky)` + `szTabR({ titulek, pod, bunky, … })` → `table.table.sz-tab` (na telefonu řádky, sloupec prázdný v celém výběru se skryje); v řadě filtrů hledání první a nejvýš 3 výběry, další pod „Další filtry (n)“ (`szFiltry(…, dalsich)`); kotva lhůty `kotvaData(iso, cas, true)` = „do 08:10“. Text v šabloně runtime obaluje do `<span class="sc-interp">` – v CSS nepoužívat pravidla „… span“, jen vlastní třídy.
 
+## Obnovení dat (Načíst znovu)
+- Každý seznam má v `.sz-hlava` tlačítko „↻ Načíst znovu“ (`znovu` modulu). Celostránkový detail, který hlavičku seznamu zakrývá, má nad obsahem lištu `.sz-detail-lista`: vlevo tlačítko „← Zpět…“, vpravo stejné „↻ Načíst znovu“ (`button.sz-znovu-d`, na telefonu jen ikona 44 px). `znovu` modulu načte seznam i otevřený detail – nový celostránkový detail dostane lištu, nový modul `znovu`, které umí obojí.
+- Po návratu do aplikace (jiná záložka, zamčený telefon, jiná aplikace) po ≥ 60 s se otevřená obrazovka a detail načtou samy – `obnovitObrazovku()` (posluchač `visibilitychange`). Nová obrazovka = větev v `obnovitObrazovku()`; při otevřeném formuláři nebo běžícím zápisu (`busy`) nic, ať se neztratí rozepsané. Žádný časovač na pozadí – Apps Script má denní limity a hlasování i žádosti běží dny, ne minuty.
+
 ## Potvrzení nevratných akcí
 Každá akce, která na serveru maže, ruší, stahuje ze zveřejnění, zamítá, odhlašuje, vyřazuje nebo ukončuje, se před voláním `this.serverem(…)` zeptá `window.confirm('…?')` s názvem věci a důsledkem („Sbor dostane e-mail.“, „Zmizí z webu…“). Kde je potřeba důvod, stačí `window.prompt` (Zrušit = nic se nestane). Bez potvrzení jen úpravy rozpracovaného formuláře, které se uloží až tlačítkem Uložit (odebrat řádek soupisky, přílohu před odesláním, bod konceptu). Kontrola 9. 11. 2026: doplněno u smazání z kalendáře, zrušení zveřejnění dokumentu a zamítnutí žádosti a přihlášky člena.

diff --git a/docs/claude-design-zadani.md b/docs/claude-design-zadani.md
@@ -82,6 +82,7 @@ Změny v šablonách od 14. 10. (zachovat):
 | `Aplikace OSH.dc.html` (12. 11., filtr účastníků školení) | detail školení: dlaždice souhrnu `sko.d.stat` jsou tlačítka `.sk-stat` (`t.aria` = aria-pressed, `t.go`) a filtrují `sko.d.ucastnici` (stav `skStatFil[ID školení]`); pod nimi `sko.d.maFiltr`, `sko.d.filtrText`, `sko.d.filtrZrusit` (Zobrazit všechny) |
 | `Aplikace OSH.dc.html` (25. 11., B17 Lidé sboru) | obrazovka sboru **Členové → Lidé sboru** (`sbSeznamLive`, `cls.*`) přepsaná: poučení `cls.maPouceni` / `cls.pouceniOdst` / `cls.pouceniPotvrdit` (první použití i dialog z odkazu „Co to znamená“), seznam `cls.jeSeznam`, formulář `cls.f` (jméno, příjmení, narozen, pohlaví, obec, vztah `cls.f.vztahOpts` + `jinySbor`, průkaz `ev`), sekce **K převzetí** `cls.kand` (Přidat do seznamu / Nepřidávat), tabulka `cls.tab` s rozbalením Upravit / Smazat (`r.upravit`, `r.smazat`, `r.info`), filtr vztahu `cls.vz`. **Odstraněno**: obrazovka okresu Seznam členů (`okSeznamClLive`, `clo.*`, položka `clenovesez`), formulář Nahlásit změnu (`cls.f.zmena`). Přihláška okresu: krok Zapsáno v evidenci bez pole `prh-ev` (`po.ev` pryč, jen `po.clenemOd`). Soupiska: položky nesou `vztah` / `rucne` (štítek `p.mimoText` = „SDH X“ / „nečlen“ / „zadáno ručně“, u okresu i `p.clen`), `r.neclenu` místo `r.mimo`. Texty „evidence“ → „seznam lidí sboru“. |
 | `Aplikace OSH.dc.html` (26. 11., B19 průběh hlasování) | detail jednání VV: u každého bodu pruh průběhu `b.graf` (`segmenty` Pro / Proti / Zdržel se / Nehlasovalo s šířkou v %, `legenda`), `b.maGraf`; detail se po otevření ze seznamu vždy načte znovu (`vvOtevritDetail`), Načíst znovu obnoví i detail |
+| `Aplikace OSH.dc.html` (26. 11., obnovení dat) | celostránkové detaily (žádost, změna sboru, kontakty sboru, majetek a výpůjčka, přihláška, školení, jednání VV, soutěž okresu i sboru) mají nad obsahem lištu `.sz-detail-lista`: vlevo „← Zpět…“, vpravo „↻ Načíst znovu“ (`button.sz-znovu-d`, na telefonu jen ikona 44 px) – volá `znovu` modulu, které načte seznam i otevřený detail (nové `sd2.znovu`). Po návratu do aplikace (jiná záložka, zamčený telefon) po ≥ 60 s se otevřená obrazovka a detail načtou samy (`obnovitObrazovku()`, posluchač `visibilitychange` v `componentDidMount`); při otevřeném formuláři nebo běžícím zápisu nic. Žádný časovač na pozadí. |
 
 Nesahat: `support.js` (runtime), `config.js` a `prostredi/` (prostředí, `nasadit.sh`), `prihlaska.js` (přihlášky – PDF, rodné číslo, QR), `souteze.js`, `zavod.js` a `zavod-sw.js` (soutěže – pořadí, závodní panel bez signálu), `data/*` (data webu, `data/web.json` zapisuje server), `apps-script/`, `skupiny-script/`.
 

diff --git a/CLAUDE.md b/CLAUDE.md
@@ -57,6 +57,7 @@ Podrobný věcný popis všech akcí (kdo smí, co dělá, pravidla) je v **`doc
 - Navigace správy okresu (F6) a portálu sboru (F9): skupiny a položky v polích `OK_SKUPINY` / `SB_SKUPINY` (role filtruje `okSmi` / `sbSmi`, odznaky `okOdznak` / `sbOdznak` v `renderVals`). Vykresluje je **jeden společný blok Navigace** v šabloně (nad bloky Okres / Sbor) s daty `nav` z metody `navigace()` – změny navigace dělej tam, ne zvlášť pro okres a sbor. Počítač / telefon přepínají CSS třídy `ok-pc-*` / `ok-mob-*` (hranice 720 px) v `<helmet>`; na telefonu spodní lišta a nabídka Více (`navVice`, obsah pod ní skrývá `nav.skrytTrida`). Nová obrazovka okresu = položka v `OK_SKUPINY` + `okObrazovky()` + pravidlo v `okSmi`; sboru = položka v `SB_SKUPINY` + `SB_LIVE_VIEWS`.
 - **Nabídka uživatele** (iniciály vpravo v hlavičce, data `um` v `renderVals`, stav `ucet`): přepnutí okres / sbory, Nastavení, Návody, Odhlásit; černý pruh nahoře už není. Jméno pro iniciály dává server (`sJmenem_` – Uživatelé, jinak Kontakty sborů). Nové položky účtu přidávat sem, ne do hlavičky.
 - **Seznamy a tabulky (úkol 6)**: vzor ve `docs/claude-design/seznamy-vzor.md`, třídy `.sz-*`; nové seznamy jen přes `radek()` / `szSeznam()`, tabulky přes `szTab()` + `szTabR()`, v řadě filtrů hledání první a nejvýš 3 výběry. Text v šabloně runtime obaluje do `<span class="sc-interp">` – v CSS nepoužívat pravidla „… span“, jen vlastní třídy. Podrobnosti `docs/aplikace-vzory.md`.
+- **Obnovení dat**: seznam „↻ Načíst znovu“ v `.sz-hlava`, celostránkový detail lišta `.sz-detail-lista` (Zpět + Načíst znovu, `znovu` modulu načte seznam i detail); po návratu do záložky po ≥ 60 s `obnovitObrazovku()` (nová obrazovka = větev tam; při formuláři nic). Žádné časovače na pozadí.
 - Volání serveru jen přes `this.api(akce, data)` (opakování, chyby, odhlášení) a pro zápisy `this.serverem(akce, data, hotovo, tlacitko)` – blokuje tlačítka a na stisknutém ukáže „Ukládám…“ (`tl.*`, `busyTl`).
 - Převody řádků tabulky ↔ aplikace: `zDok`, `zKal`, `naKal`; data portálu `pt.*`, žádosti `zo.*`/`zd2.*` (okres) a `zs.*` (sbor), přehled okresu `opl.*`.
 - Viditelnost **Pro koho** (veřejnost, všechny sbory, sbory s MH/JSDH/se sportem, okrsek, jen okres): pravidla jen na serveru v `smiVidet_()` (`Portal.gs`); aplikace jen zobrazuje štítky (`stitek()`, `proPopis()`).
